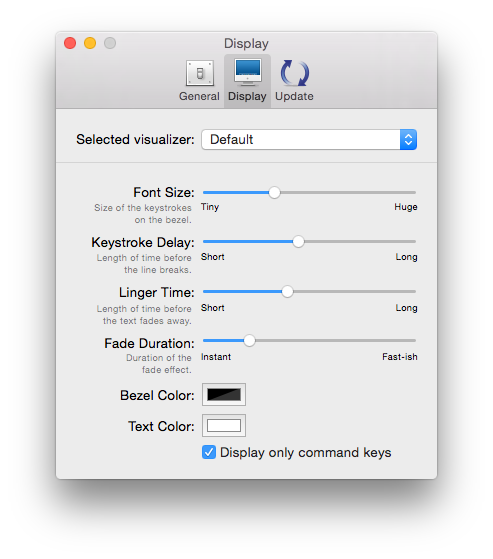
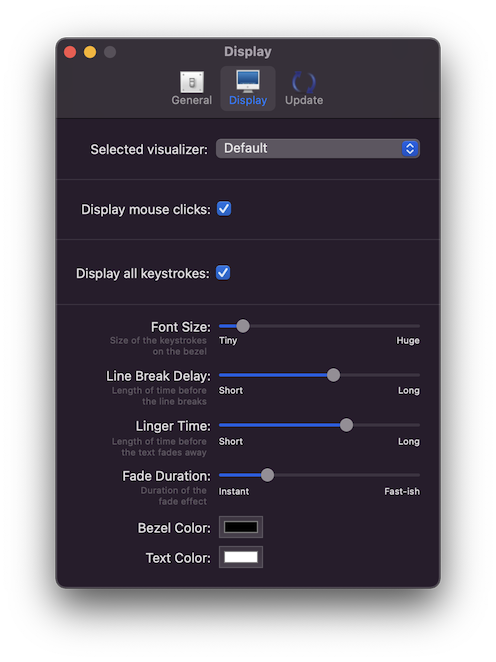
Some updates to the README

diff --git a/README.md b/README.md
@@ -1,26 +1,30 @@
-# Keycastr
+# KeyCastr
 
-KeyCastr, an open-source keystroke visualizer.
+KeyCastr, an open source keystroke visualizer.
 
-![preview](assets/preview.png)
+![header image](assets/KeyCastr_header.png)
+
+KeyCastr enables you to share your keystrokes when creating screencasts, presenting, or collaborating with others. You can choose to display all keystrokes or command keys only, and there is also an option to include mouse clicks.
+
+It is also possible to develop your own visualizer on top of KeyCastr -- pull requests are welcome!
 
 ![display preferences](assets/preferences.png)
 
-## Download
+## Installation
 
- - [Download latest release](https://github.com/keycastr/keycastr/releases)
+Download the latest release from [GitHub](https://github.com/keycastr/keycastr/releases)
 
-## Installation via [homebrew](http://brew.sh/) [cask](https://github.com/caskroom/homebrew-cask)
+Or, install using [homebrew](http://brew.sh/)
 
 ```console
 brew install --cask keycastr
 ```
 
-## Enabling Accessibility API Access
+## Granting Permissions
 
-KeyCastr requires access to the macOS Accessibility API in order to receive your key events and broadcast the keystrokes you are interested in.
+KeyCastr requires your permission to receive events from macOS in order to broadcast your keystrokes and mouse clicks.
 
-On newer versions of macOS (10.15+) there is a new Input Monitoring menu under Security & Privacy within the System Preferences app, and KeyCastr will appear there automatically the first time you run it. Simply unlock this menu and check the box next to KeyCastr to enable it.
+On newer versions of macOS (10.15+) there is an Input Monitoring menu under Security & Privacy within the System Preferences app, and KeyCastr will appear there automatically the first time you run it. Simply unlock this menu and check the box next to KeyCastr to enable it.
 
 ![input_monitoring](assets/input_monitoring.png)
 
@@ -28,17 +32,9 @@ On older versions of macOS, or if for some reason the app doesn't appear under t
 
 ![accessibility](assets/accessibility.png)
 
-To add KeyCastr to the list click the <kbd>&plus;</kbd> button and select KeyCastr from the file system.
+To add KeyCastr to the list click the <kbd>&plus;</kbd> button and select KeyCastr from the file system, or drag it in using Finder.
 
-If KeyCastr is already in the list, then click the <kbd>&minus;</kbd> button and add KeyCastr again to be certain that the right application is chosen.
-
-## Displaying All Keystrokes
-
-Make sure to check the "Display all keystrokes" checkbox if you would like to display more than just the modifier keys.
-
-Alternatively, keep this box unchecked to only display modifier keys (e.g. ⇧ ⌃ ⌥ ⌘)
-
-![display_all_keystrokes](assets/display_all_keystrokes.png)
+If KeyCastr is already in the list you can remove it with the <kbd>&minus;</kbd> button and add it again in order to be certain that the right copy of the application is specified.
 
 ## Position on Screen
 
@@ -46,14 +42,22 @@ The default position is on the bottom left of your display. To modify the positi
 
 ![reposition](assets/reposition.gif)
 
-## History
+## Security Concerns
 
- - [sdeken](https://github.com/sdeken/keycastr) wrote the original version.
- - [akitchen](https://github.com/akitchen/keycastr) fixes for more recent OS X releases and other maintenance.
- - [elia](https://github.com/elia/keycastr) created `keycastr` organization and forked into it.
- - [lqez](https://github.com/lqez/keycastr) added a new menu bar icon.
+From time to time questions arise as to the trustworthiness of KeyCastr as an application which receives input events from macOS. KeyCastr is completely free and open source, and does not employ any networking mechanisms other than that included with the ubiquitous [Sparkle framework](https://sparkle-project.org/) for managing application updates. KeyCastr will never receive or display your passwords, so long as the website or application you are using treats password entry as secure, e.g. `<input type="password">` or equivalent.
 
+Please understand that any application in the Accessibility or Input Monitoring sections of the Security & Privacy pane in macOS's Preferences.app is capable of receiving all your input events. We encourage you to inspect these lists carefully, remove applications which you don't believe need to monitor your input, and ask tough questions of the companies which produce the closed source software you use.
+
+## History and Credits
+
+ - [sdeken](https://github.com/sdeken) wrote the original version.
+ - [akitchen](https://github.com/akitchen) occasional development and maintenance.
+ - [elia](https://github.com/elia) created `keycastr` organization and forked into it.
+ - [lqez](https://github.com/lqez) added a new menu bar icon.
+ - [QuintB](https://github.com/QuintB) designed an updated application icon to match the icon style in modern versions of macOS.
 
 ## License
 
 [BSD 3-Clause](https://opensource.org/licenses/BSD-3-Clause)
+
+KeyCastr has been freely available for the Mac since 2009.
